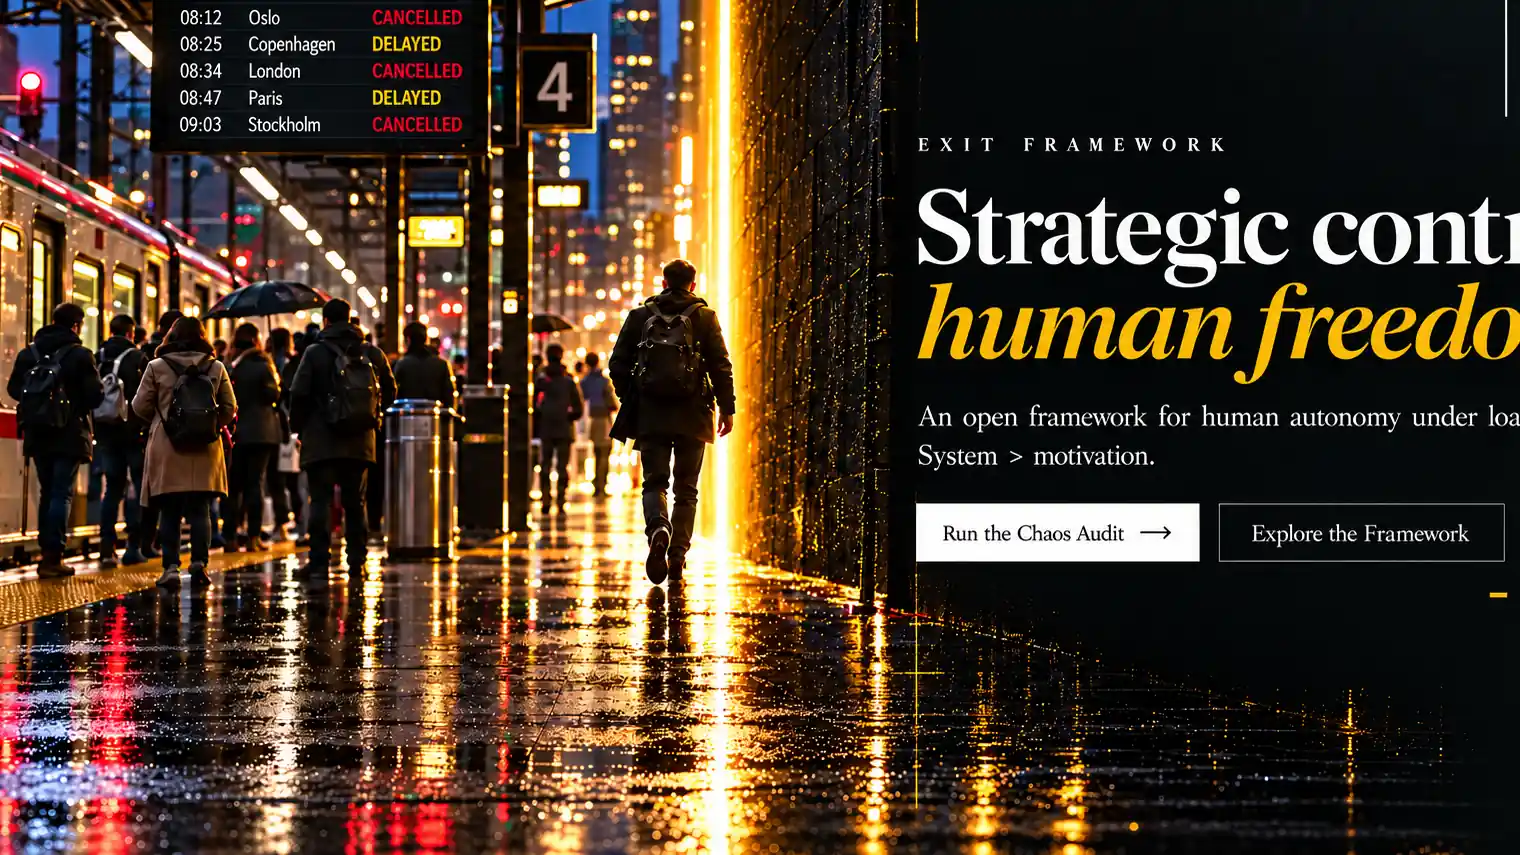
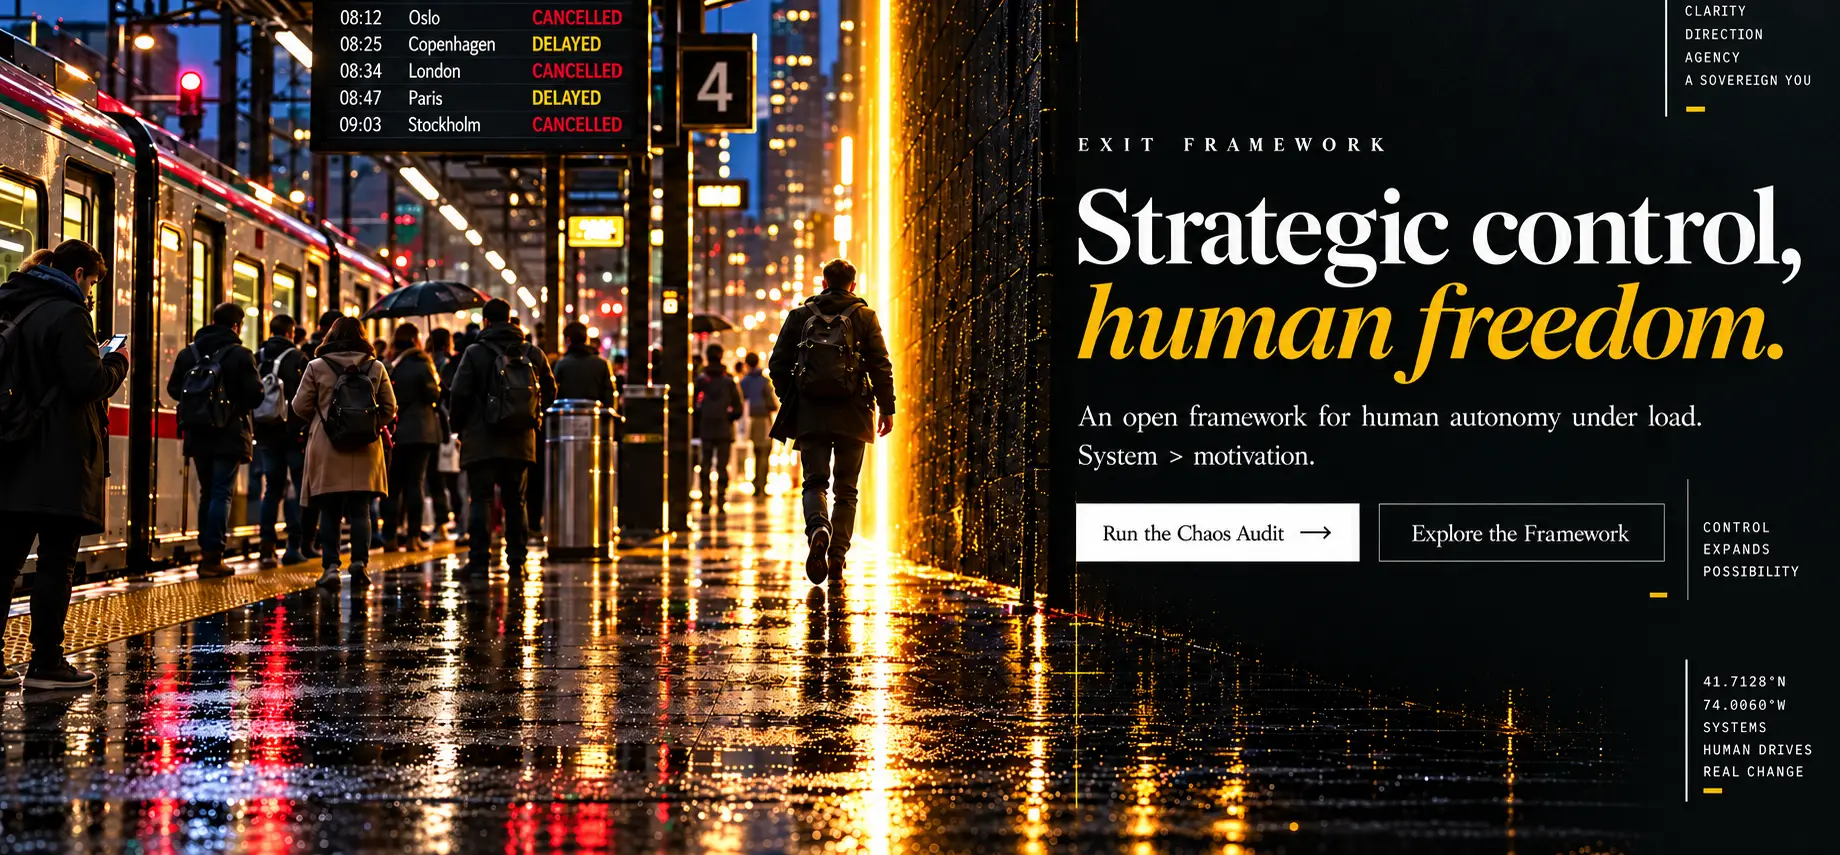
Restore full-frame EXIT hero
* Restore full-frame high-resolution EXIT hero

* Use full-frame EXIT hero dimensions

* Match hero plane to full 1840x855 composition

* Update full-frame hero validation

diff --git a/index.html b/index.html
@@ -13,7 +13,7 @@
   <link rel="icon" type="image/svg+xml" href="assets/exit-mark.svg">
   <title>Exit Framework — Strategic control, human freedom</title>
   <link rel="stylesheet" href="styles.css?v=20260925-system1">
-  <link rel="stylesheet" href="portal-hero.css?v=36">
+  <link rel="stylesheet" href="portal-hero.css?v=37">
 </head>
 <body class="home">
 <a class="skip-link" href="#main">Skip to content</a>
@@ -63,7 +63,7 @@
 
 <main id="main">
   <section class="portal-hero" aria-labelledby="hero-title">
-    <img class="portal-scene-art" src="assets/exit-hero-approved-v37.webp" width="1520" height="855" alt="" fetchpriority="high" decoding="async">
+    <img class="portal-scene-art" src="assets/exit-hero-approved-v37.webp" width="1840" height="855" alt="" fetchpriority="high" decoding="async">
 
     <div class="portal-copy">
       <p class="portal-eyebrow">EXIT FRAMEWORK</p>

diff --git a/portal-hero.css b/portal-hero.css
@@ -1393,7 +1393,7 @@
 }
 
 
-/* v36 — train-station portal approved 2026-09-30 */
+/* v37 — full 1840×855 station frame; preserve full composition without center crop. */
 .site-header.portal-header{
   display:none!important;
 }
@@ -1401,8 +1401,8 @@
 @media(min-width:900px){
   .portal-scene-art,
   .portal-copy{
-    width:max(100vw,calc(100svh * 1.7777777778));
-    height:max(100svh,calc(100vw / 1.7777777778));
+    width:max(100vw,calc(100svh * 2.1520467836));
+    height:max(100svh,calc(100vw / 2.1520467836));
   }
 
   .portal-hero-actions{

diff --git a/validate.py b/validate.py
@@ -148,7 +148,7 @@ for required in (
     'human freedom.',
     'Run the Chaos Audit',
     'Explore the Framework',
-    'portal-hero.css?v=36',
+    'portal-hero.css?v=37',
     '<img class="portal-scene-art"',
     'assets/exit-hero-approved-v37.webp',
     'aria-label="Primary navigation"',
